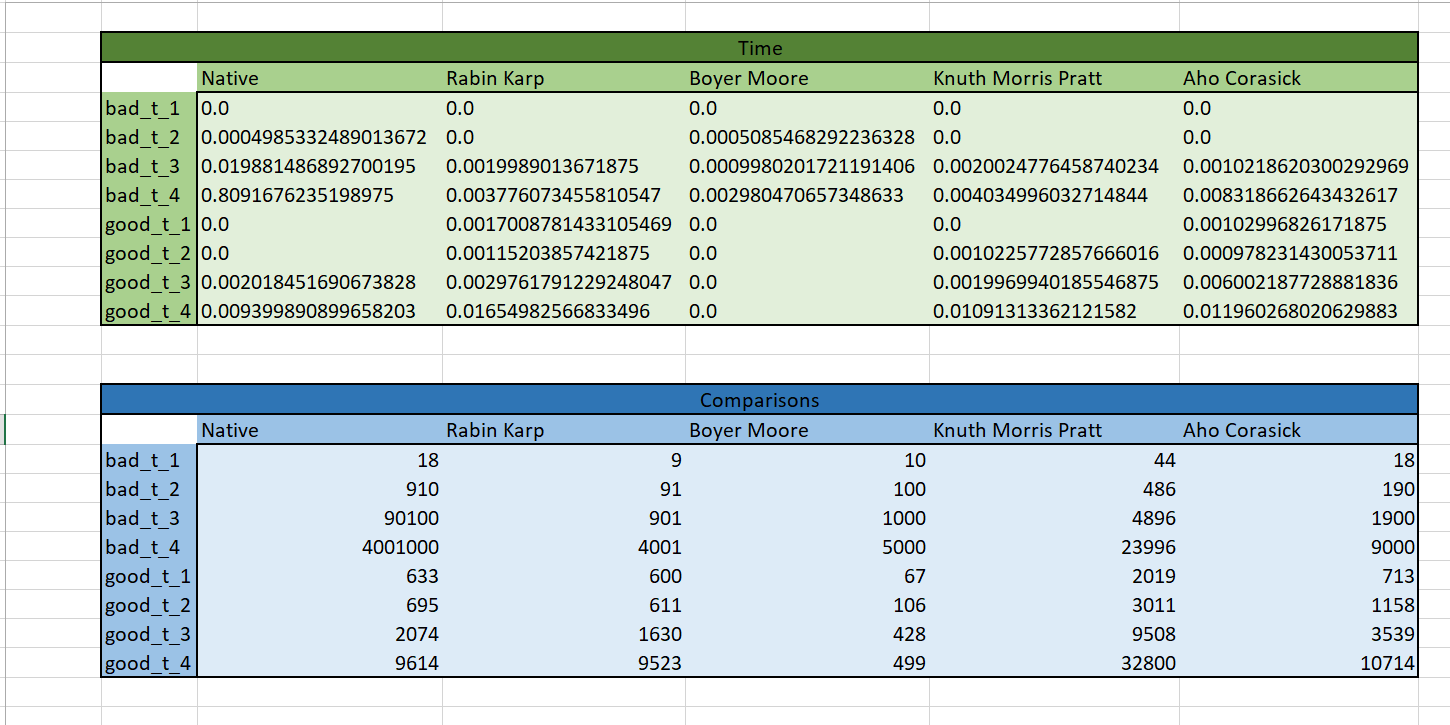
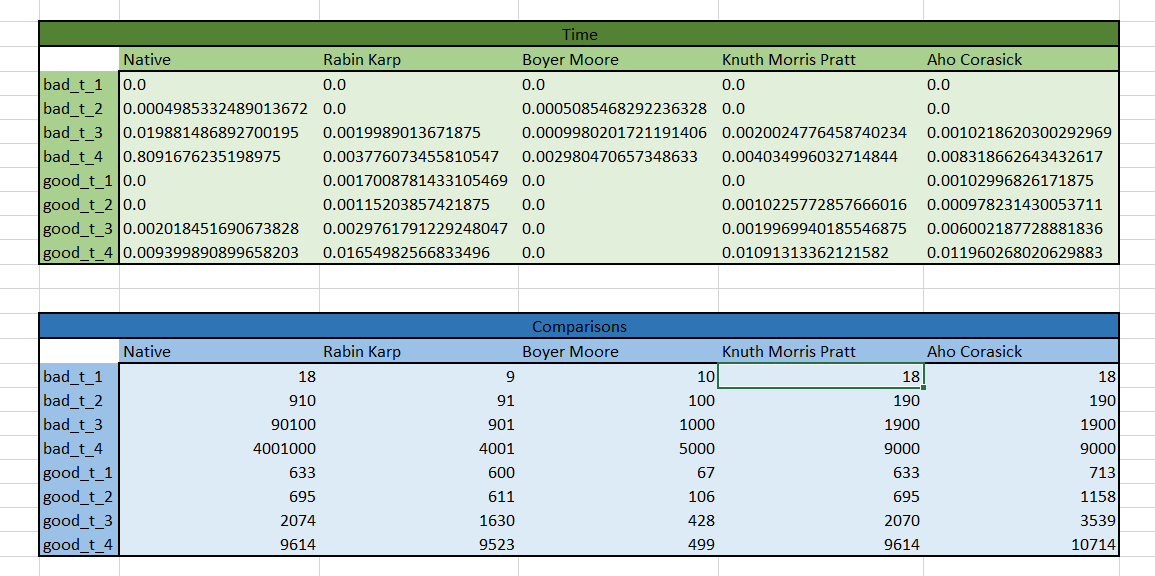
fixed comparison counter in KMP

diff --git a/search_string/knuth_morris_pratt.py b/search_string/knuth_morris_pratt.py
@@ -8,20 +8,17 @@ def search(text, pattern):
         return (-1, cmp_count)
 
     def compute_prefix_function():
-        tmp = 0
         prefix_function = [0 for x in range(text_size)]
         for i in range(1, text_size):
             j = prefix_function[i-1]
             while j > 0 and text[i] != text[j]:
-                tmp += 1
                 j = prefix_function[j-1]
-            tmp += 2
             if text[i] == text[j]:
                 j += 1
             prefix_function[i] = j
-        return prefix_function, tmp
+        return prefix_function
 
-    prefix_function, cmp_count = compute_prefix_function()
+    prefix_function = compute_prefix_function()
     i = 0
     j = 0
     while j != text_size - pattern_size + 1:
